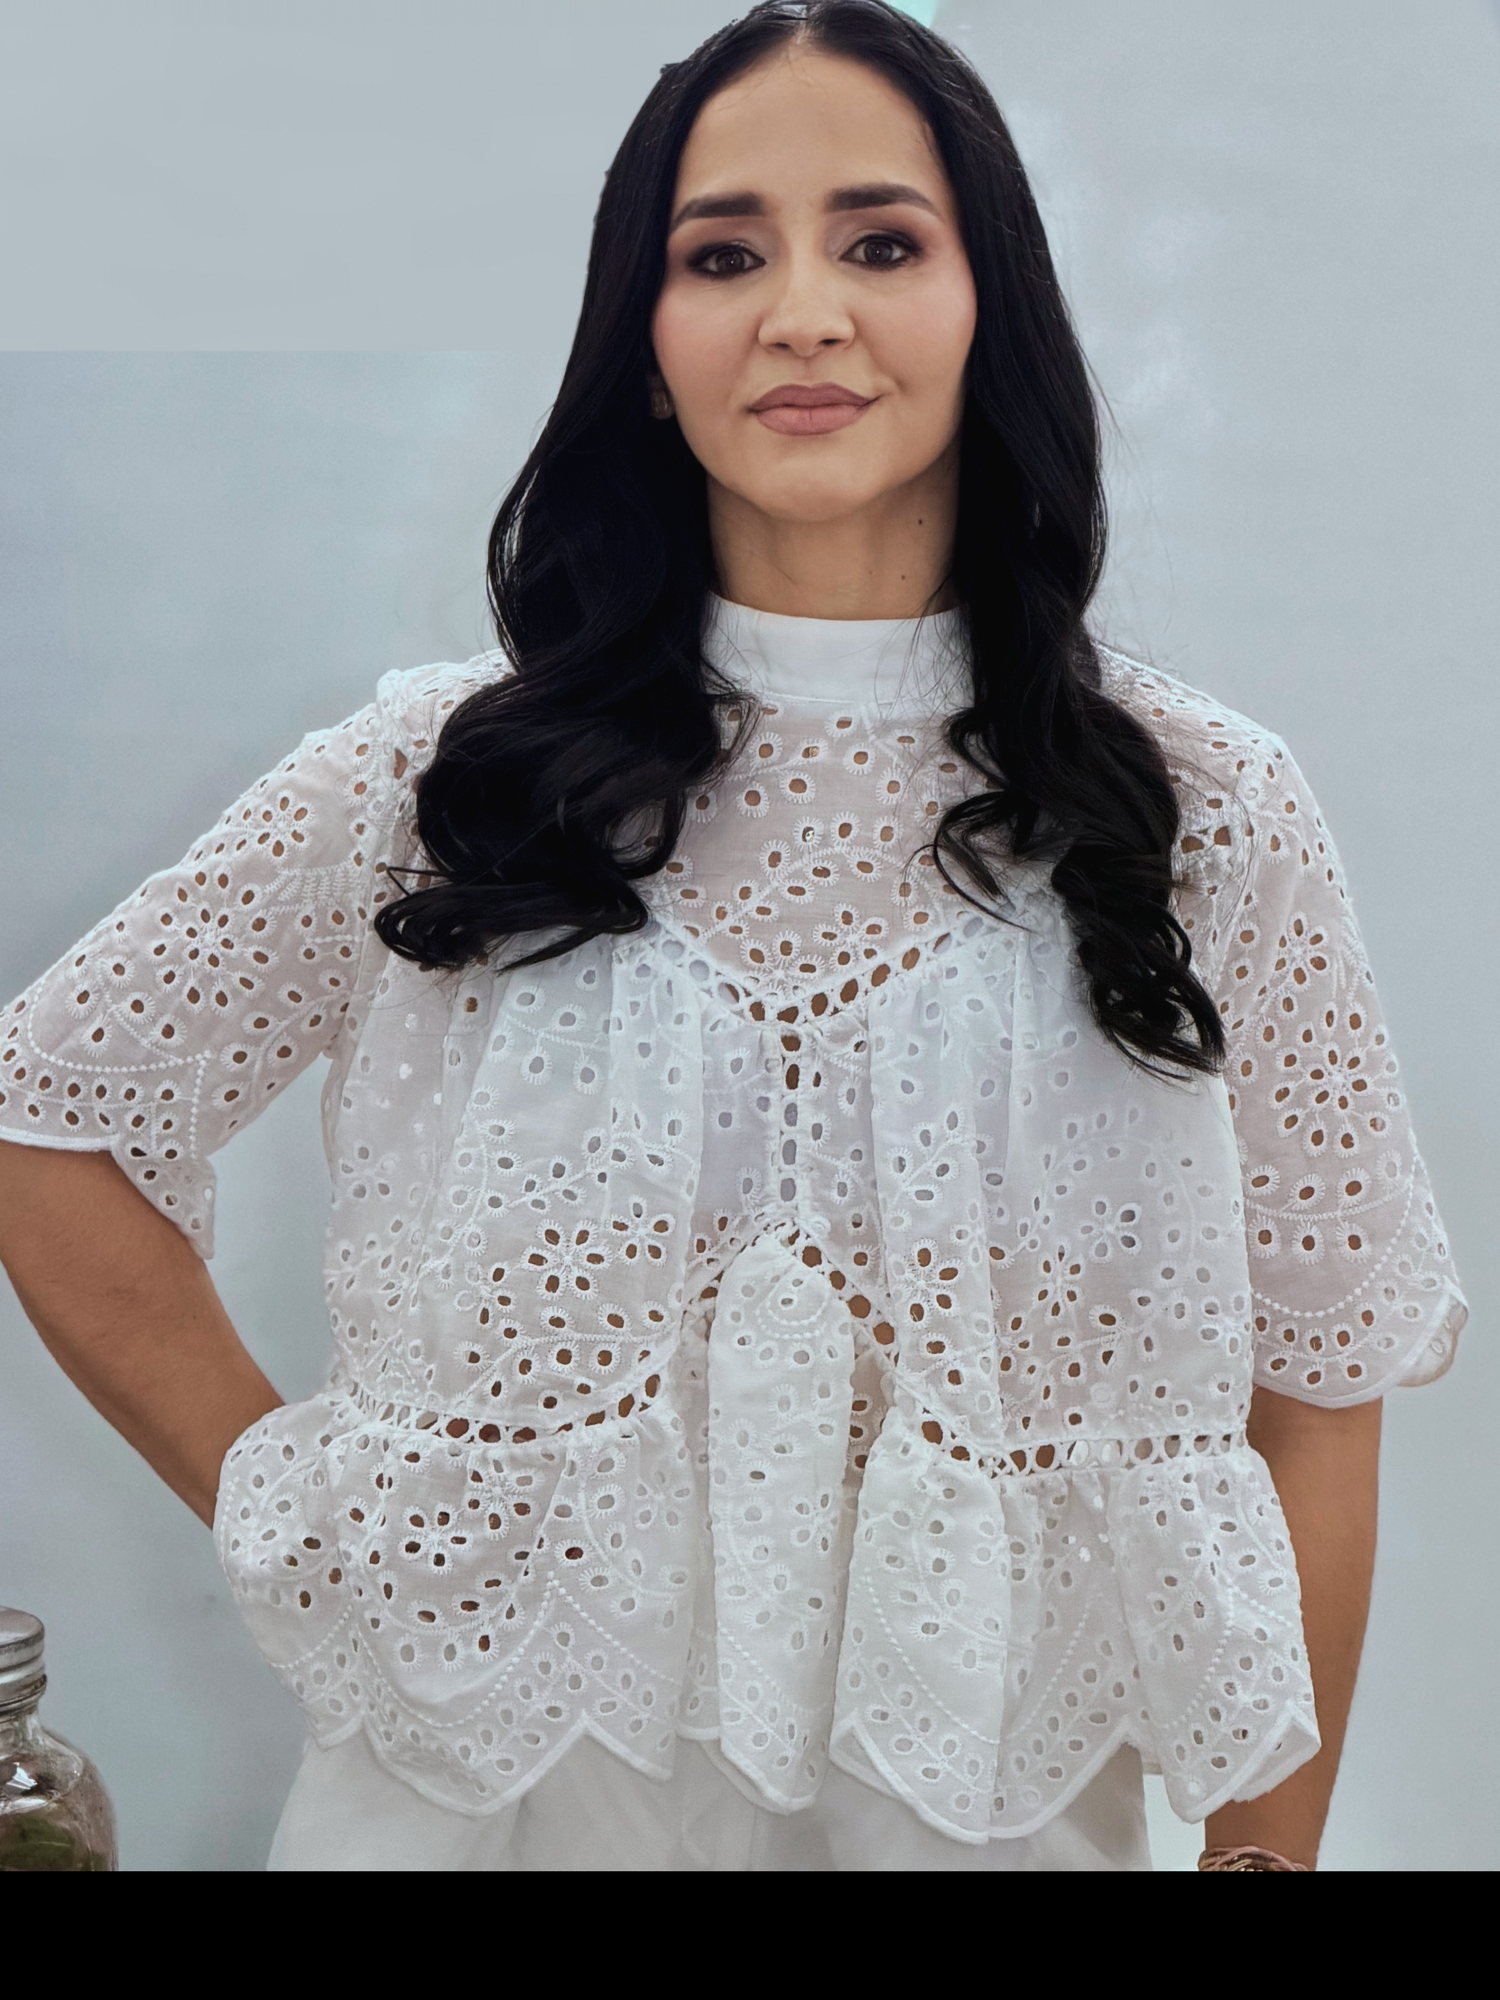
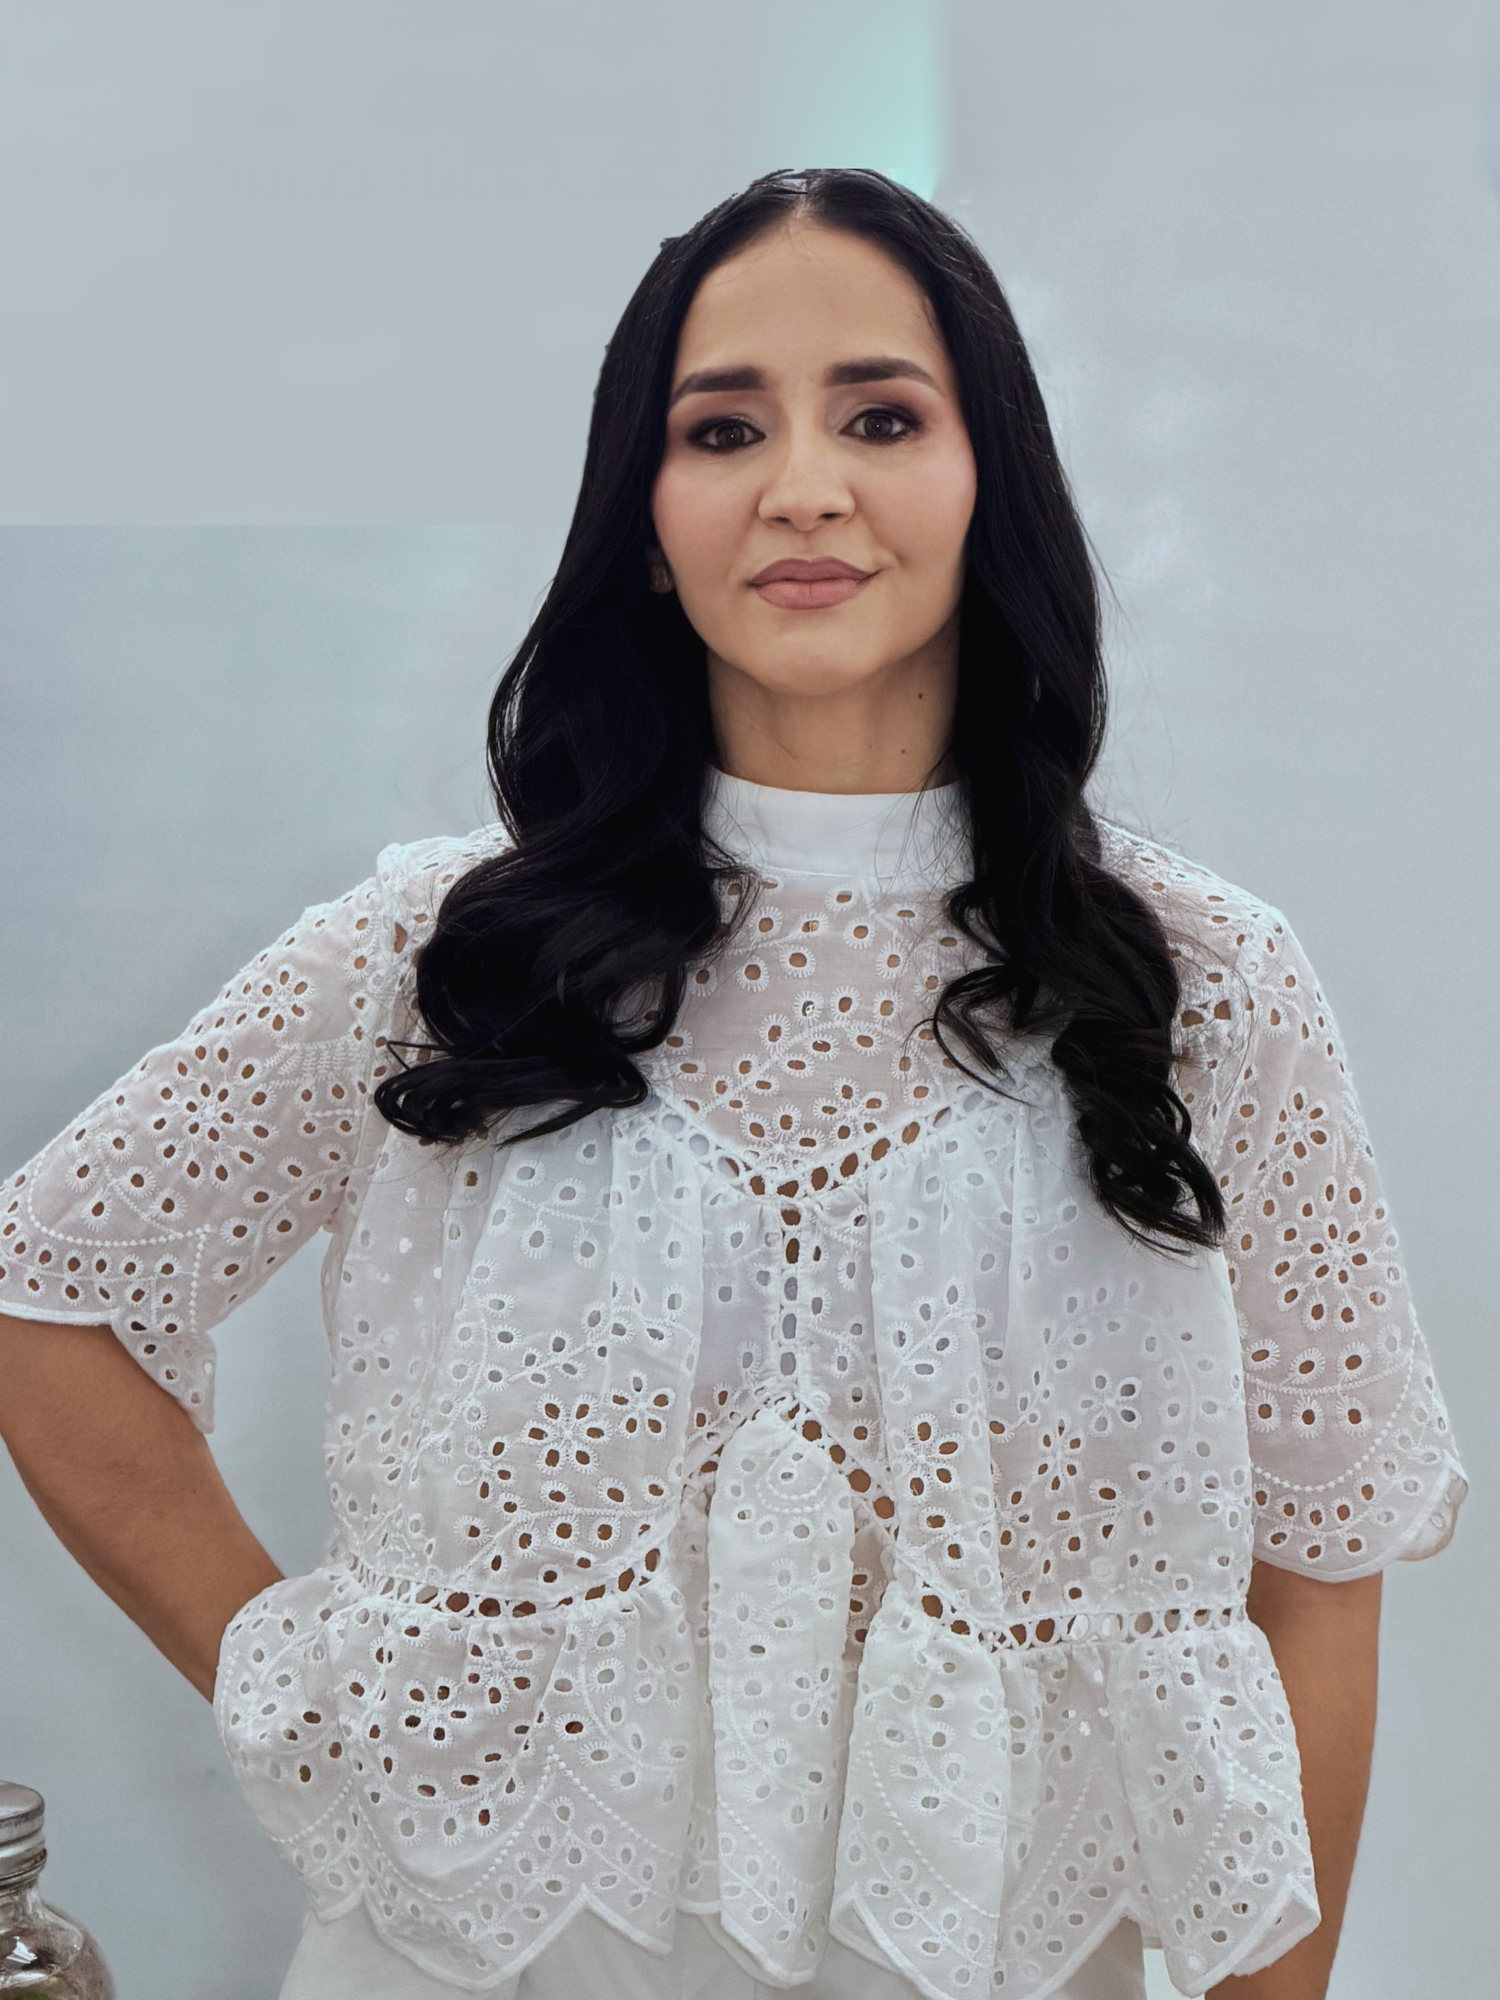
Hero: restaurar la foto y el encuadre de 299c6e9

diff --git a/components/home/Hero.tsx b/components/home/Hero.tsx
@@ -60,7 +60,7 @@ export function Hero() {
               placeholder="blur"
               quality={78}
               sizes="(min-width: 1024px) 28rem, (min-width: 640px) 26rem, 88vw"
-              className="object-cover object-top"
+              className="object-cover object-[50%_20%]"
             />
           </div>
           <figcaption className="entrada-aparecer mt-5 flex flex-col gap-1 px-1 sm:flex-row sm:items-baseline sm:justify-between sm:gap-4" style={retraso(0.9)}>
